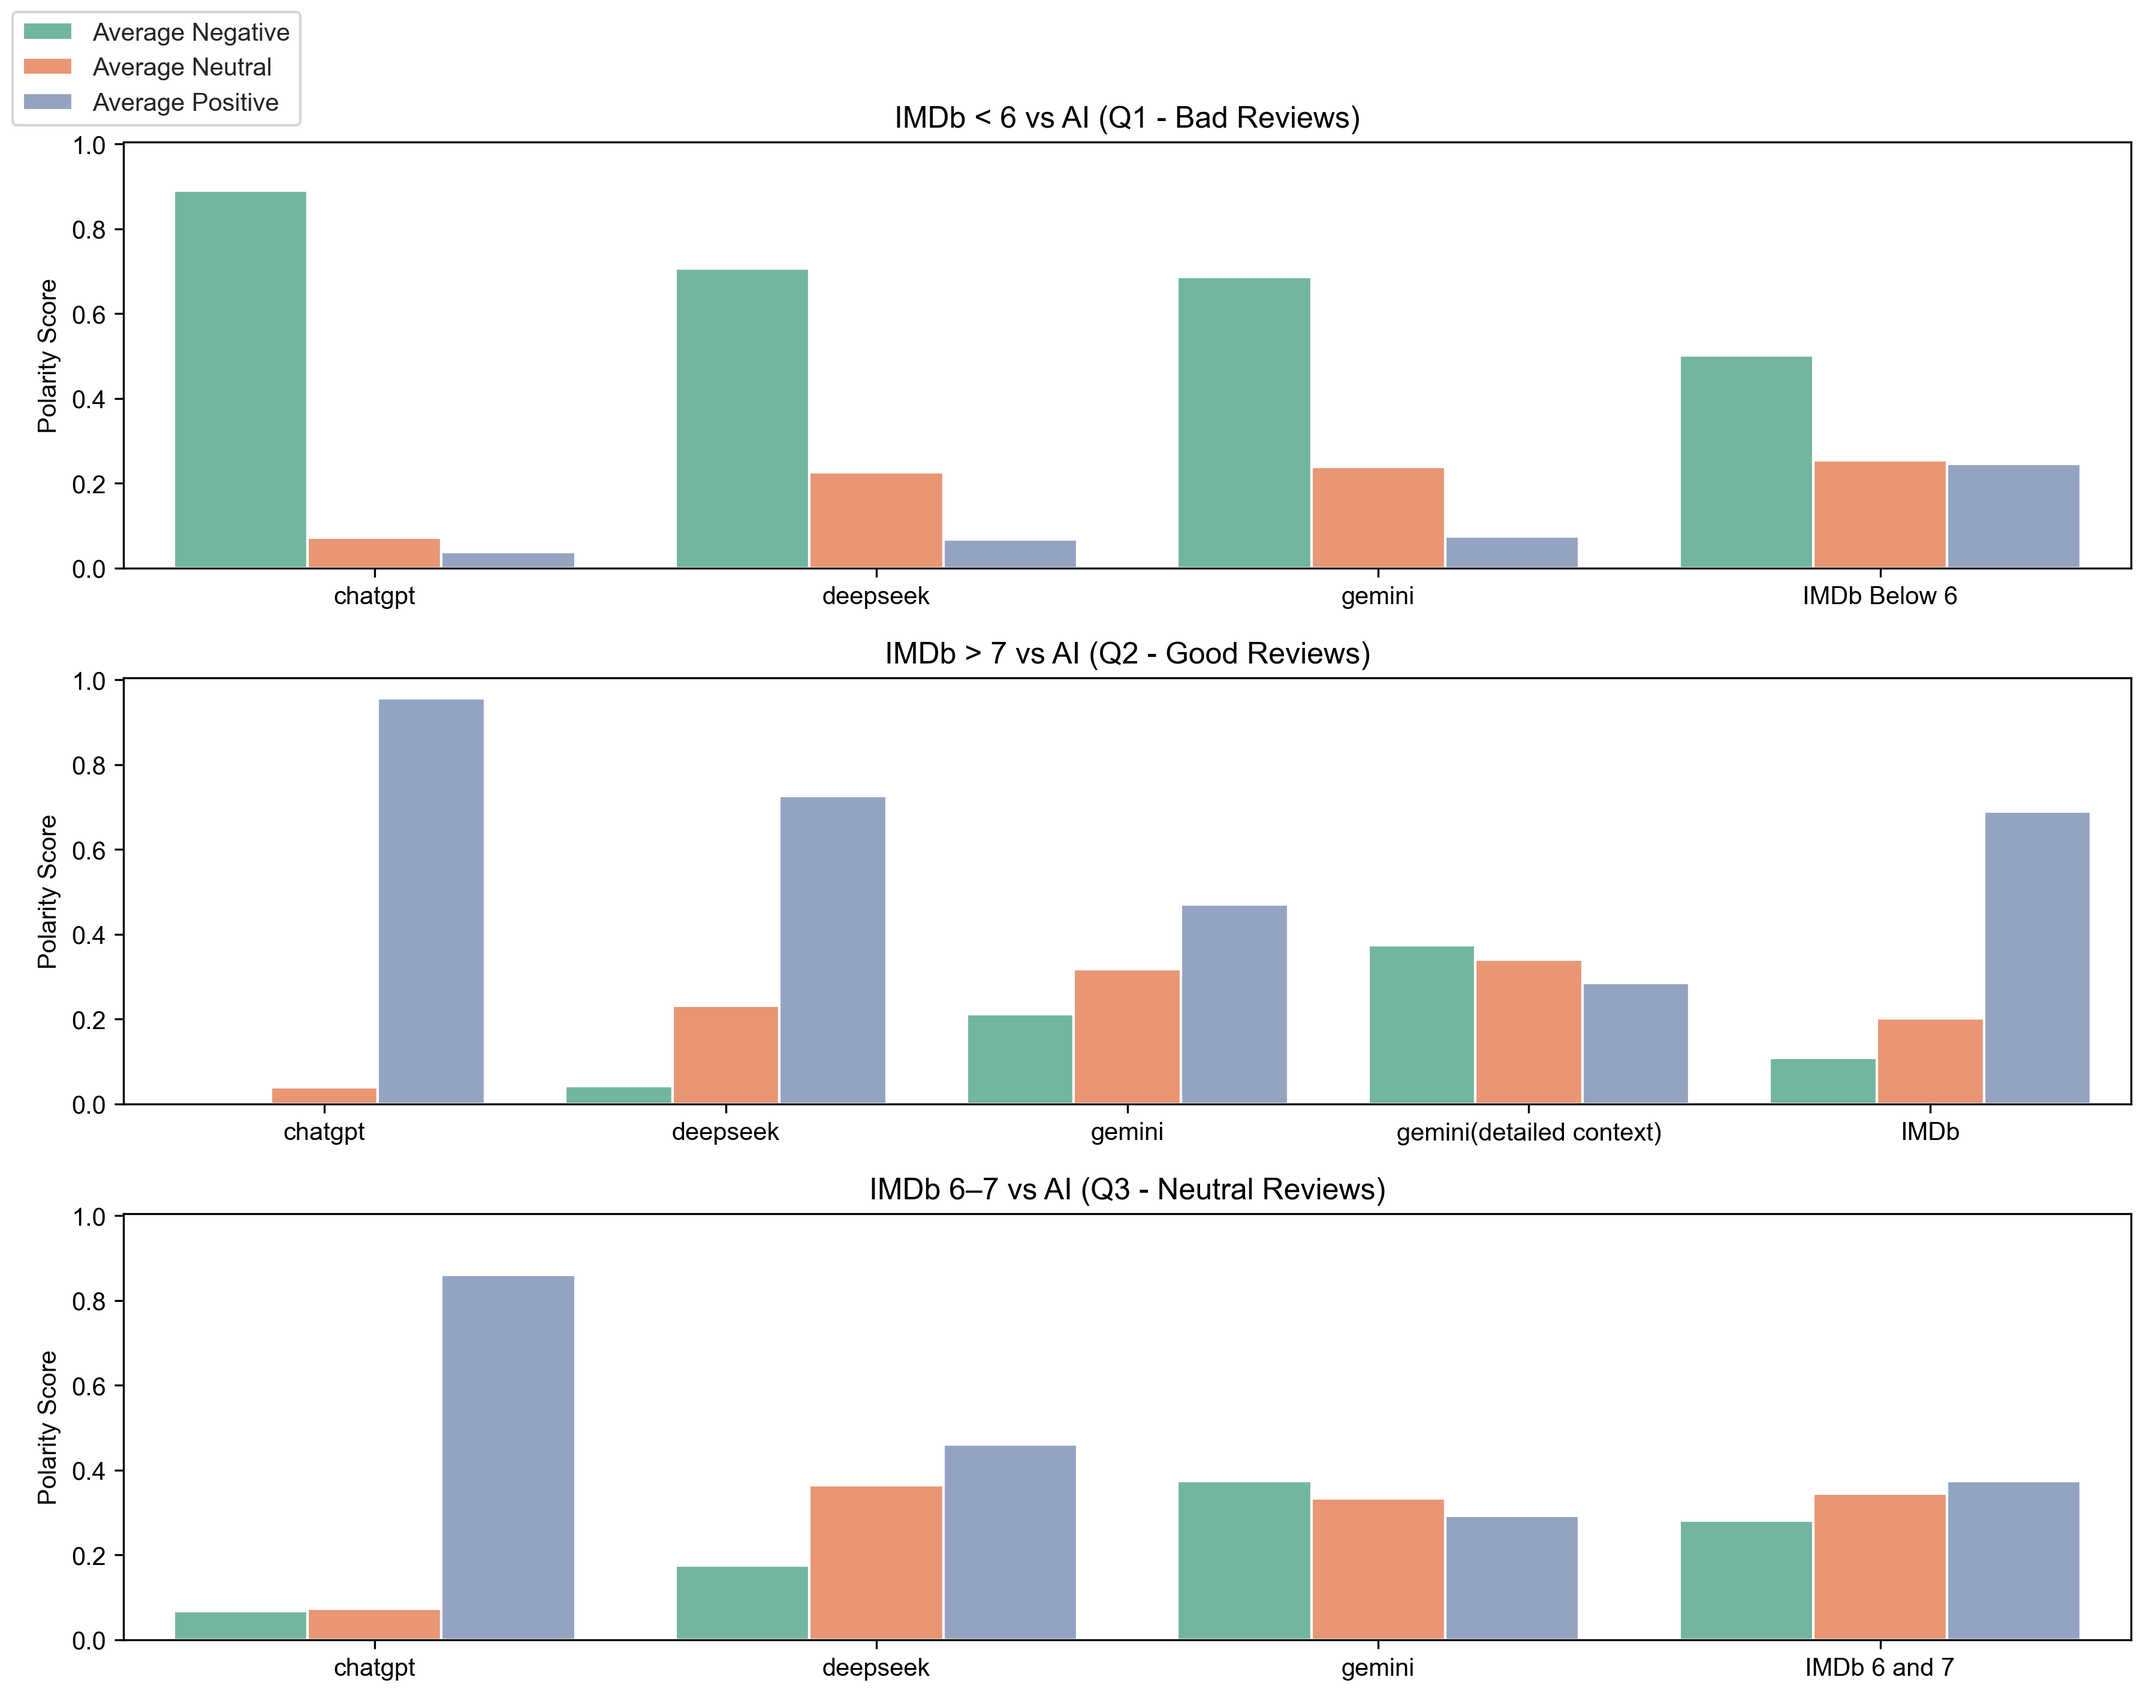
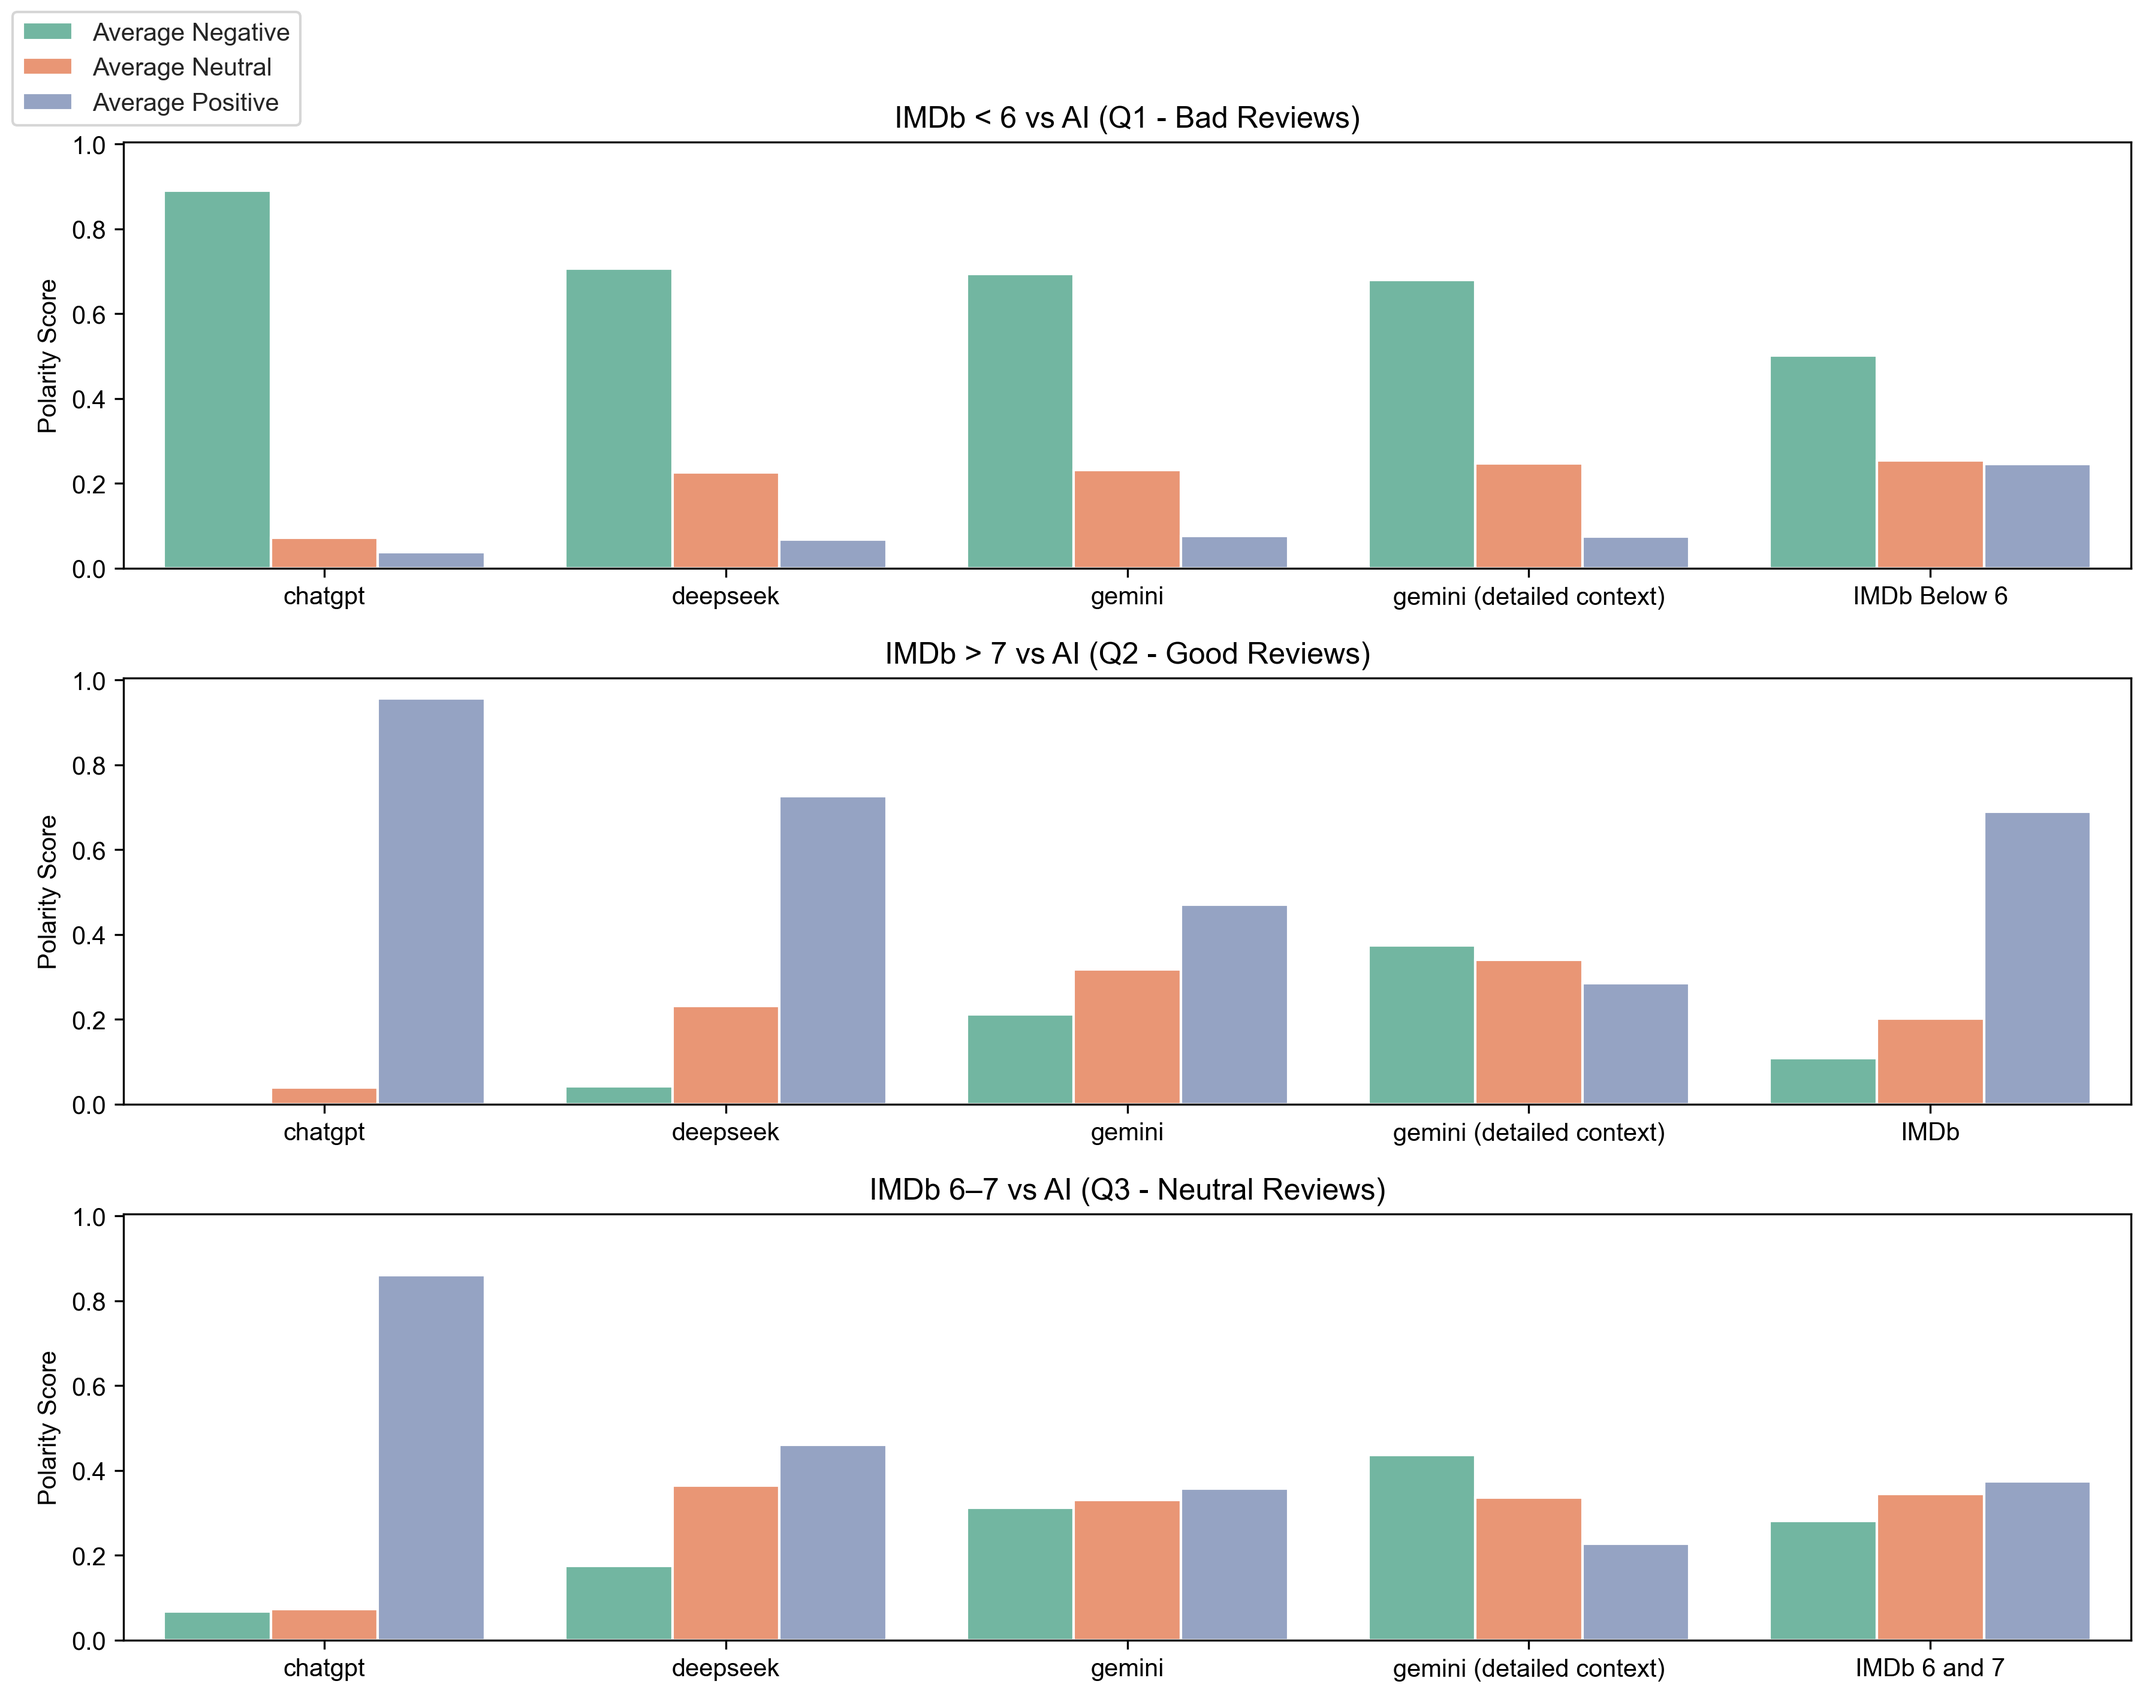
refine code, update combined_polarity_score_comparison_Screenplays

diff --git a/visualization/polarity.py b/visualization/polarity.py
@@ -2,174 +2,109 @@ import pandas as pd
 import seaborn as sns
 import matplotlib.pyplot as plt
 
-# Load the data
-ai_models = pd.read_csv('../polarity_scores_output/average_polarity_scores_subtitles.csv')
+
+# load the data
+subtitles_df = pd.read_csv('../polarity_scores_output/average_polarity_scores_subtitles.csv')
+screenplays_df = pd.read_csv('../polarity_scores_output/average_polarity_scores_screenplays.csv')
 imdb_above7 = pd.read_csv('../average_polarity_scores_imdb_above_7.csv')
 imdb_below6 = pd.read_csv('../average_polarity_scores_imdb_below_6.csv')
 imdb_6_and_7 = pd.read_csv('../average_polarity_scores_imdb_between_6_and_7.csv')
 
-ai_models['File'] = ai_models['File'].replace({
-    'aireviews_chatgpt.csv': 'chatgpt',
-    'aireviews_deepseek.csv': 'deepseek',
-    'aireviews_gemini.csv': 'gemini',
-    'aireviews_gemini_context_variation.csv' : 'gemini (detailed context)'
-})
+# replace file name with AI model name
+def replace_model_name(file_name):
+    # Check for 'gemini' with context variation first
+    if 'gemini_screenplays_context_variation' in file_name.lower() or 'gemini_context_variation' in file_name.lower():
+        return 'gemini (detailed context)'
+    elif 'gemini_screenplays' in file_name.lower():
+        return 'gemini'
+    elif 'chatgpt' in file_name.lower():
+        return 'chatgpt'
+    elif 'deepseek' in file_name.lower():
+        return 'deepseek'
+    elif 'gemini' in file_name.lower():
+        return 'gemini'
+    else:
+        return 'unknown'
 
-# Rename the 'File' column to 'Source'
-ai_models = ai_models.rename(columns={'File': 'Model'})
+def prepare_data(df,question=None):
+    # replace file name with AI model name
+    df['Source'] = df['File'].apply(replace_model_name)
+    print(df['Source'])
 
-# Filter out AI models for Question 2 (good reviews)
-ai_good_reviews = ai_models[ai_models['Question'] == 'question2'].copy()
-ai_good_reviews['Source'] = ai_good_reviews['Model']  # Label the AI source as per the model
+    # split to good, bad, neutral review based on question column
+    if question:
+        df = df[df['Question'] == question]
+    return df[['Movie', 'Source', 'Average Negative', 'Average Neutral', 'Average Positive']]
 
-ai_bad_reviews = ai_models[ai_models['Question'] == 'question1'].copy()
-ai_neutral_reviews = ai_models[ai_models['Question'] == 'question3'].copy()
-
-ai_bad_reviews['Source'] = ai_bad_reviews['Model']  # Label the AI source for Q1 (bad reviews)
-ai_neutral_reviews['Source'] = ai_neutral_reviews['Model']  # Label the AI source for Q3 (neutral reviews)
-
-# Add the IMDb data to the plot with the 'Source' as 'IMDb'
+# label the IMDb data with rating
 imdb_above7['Source'] = 'IMDb'
 imdb_below6['Source'] = 'IMDb Below 6'
 imdb_6_and_7['Source'] = 'IMDb 6 and 7'
 
-# Select the relevant columns for polarity scores
-ai_good_reviews = ai_good_reviews[['Movie', 'Source', 'Average Negative', 'Average Neutral', 'Average Positive']]
-imdb_above7 = imdb_above7[['Movie', 'Source', 'Average Negative', 'Average Neutral', 'Average Positive']]
-ai_bad_reviews = ai_bad_reviews[['Movie', 'Source', 'Average Negative', 'Average Neutral', 'Average Positive']]
-ai_neutral_reviews = ai_neutral_reviews[['Movie', 'Source', 'Average Negative', 'Average Neutral', 'Average Positive']]
-imdb_below6 = imdb_below6[['Movie', 'Source', 'Average Negative', 'Average Neutral', 'Average Positive']]
-imdb_6_and_7 = imdb_6_and_7[['Movie', 'Source', 'Average Negative', 'Average Neutral', 'Average Positive']]
+# change wide-format to long format
+def melt_data(df):
+    return pd.melt(df, id_vars = ['Movie', 'Source'],
+                   value_vars=['Average Negative', 'Average Neutral', 'Average Positive'],
+                   var_name='Polarity Type', value_name='Polarity Score')
 
 
-# Combine IMDb and AI data into one dataset
-combined_data = pd.concat([ai_good_reviews, imdb_above7], ignore_index=True)
-combined_bad_reviews = pd.concat([ai_bad_reviews, imdb_below6], ignore_index=True)
-combined_neutral_reviews = pd.concat([ai_neutral_reviews, imdb_6_and_7], ignore_index=True)
+def generate_polarity_barplot(source_name):
+    if source_name == 'Subtitle':
+        df = subtitles_df
+    else:
+        df = screenplays_df
+
+    ai_good_reviews = prepare_data(df, 'question2')
+    ai_bad_reviews = prepare_data(df, 'question1')
+    ai_neutral_reviews = prepare_data(df, 'question3')
+
+    # conmine IMDb reviews and correspoding AI reviews
+    combined_data = pd.concat([ai_good_reviews, imdb_above7], ignore_index=True)
+    combined_bad_reviews = pd.concat([ai_bad_reviews, imdb_below6], ignore_index=True)
+    combined_neutral_reviews = pd.concat([ai_neutral_reviews, imdb_6_and_7], ignore_index=True)
+
+    melted_good_reviews = melt_data(combined_data)
+    melted_bad_reviews = melt_data(combined_bad_reviews)
+    melted_neutral_reviews = melt_data(combined_neutral_reviews)
 
 
-# Melt the data for good reviews
-melted_data = pd.melt(combined_data, id_vars=['Movie', 'Source'],
-                      value_vars=['Average Negative', 'Average Neutral', 'Average Positive'],
-                      var_name='Polarity Type', value_name='Polarity Score')
+    # plot
+    fig, axes = plt.subplots(3, 1, figsize=(12,9.5), sharey=True)
+    sns.set(style="whitegrid")
+    palette = sns.color_palette("Set2", 3)
 
-# Melt the data for bad reviews (Q1 vs IMDb Below 6)
-melted_bad_reviews = pd.melt(combined_bad_reviews, id_vars=['Movie', 'Source'],
-                             value_vars=['Average Negative', 'Average Neutral', 'Average Positive'],
-                             var_name='Polarity Type', value_name='Polarity Score')
+    plot_data = [
+        ('IMDb < 6 vs AI (Q1 - Bad Reviews)', melted_bad_reviews, axes[0]),
+        ('IMDb > 7 vs AI (Q2 - Good Reviews)', melted_good_reviews, axes[1]),
+        ('IMDb 6–7 vs AI (Q3 - Neutral Reviews)', melted_neutral_reviews, axes[2])
+    ]
 
-# Melt the data for neutral reviews (Q3 vs IMDb Between 6 and 7)
-melted_neutral_reviews = pd.melt(combined_neutral_reviews, id_vars=['Movie', 'Source'],
-                                 value_vars=['Average Negative', 'Average Neutral', 'Average Positive'],
-                                 var_name='Polarity Type', value_name='Polarity Score')
+    for title, df, ax in plot_data:
+        sns.barplot(x='Source', y='Polarity Score', hue='Polarity Type',
+                    data=df, ax=ax, palette=palette,
+                    errorbar=None)
 
-# Melt the data for neutral reviews (Q3 vs IMDb Between 6 and 7)
-melted_good_reviews = pd.melt(combined_data, id_vars=['Movie', 'Source'],
-                                 value_vars=['Average Negative', 'Average Neutral', 'Average Positive'],
-                                 var_name='Polarity Type', value_name='Polarity Score')
+        ax.set_title(title)
+        ax.set_xlabel('')
+        ax.set_ylabel('Polarity Score')
+        ax.tick_params(axis='x')
+        ax.get_legend().remove()
+        ax.grid(False)
 
-### Bar Plot
-# Create a bar plot for the melted data (Good Reviews)
-# plt.figure(figsize=(12, 6))
-# sns.barplot(x='Source', y='Polarity Score', hue='Polarity Type', data=melted_data, palette='Set2')
-#
-# # Add titles and labels
-# plt.title("Comparison of Polarity Scores for IMDb vs AI (Good Reviews)", fontsize=14)
-# plt.xlabel("Source (IMDb vs AI)", fontsize=12)
-# plt.ylabel("Polarity Score", fontsize=12)
-# plt.xticks(rotation=45)
-#
-# # Display the plot
-# plt.tight_layout()
-# # save fig
-# plt.savefig("polarity_score_comparison(good).png", dpi=300, bbox_inches="tight")
-# plt.show()
-#
-# # Create a bar plot for the melted data (Bad Reviews)
-# plt.figure(figsize=(12, 6))
-# sns.barplot(x='Source', y='Polarity Score', hue='Polarity Type', data=melted_data, palette='Set2')
-#
-# # Add titles and labels
-# # Comparison of Polarity Scores for AI (Question 1) vs IMDb (Rating < 6)
-# plt.title("Comparison of Polarity Scores for AI vs IMDb (Bad Reviews)", fontsize=14)
-# plt.xlabel("Source (IMDb Below 6 vs AI - Q1)", fontsize=12)
-# plt.ylabel("Polarity Score", fontsize=12)
-# plt.xticks(rotation=45)
-#
-# # Display the plot
-# plt.tight_layout()
-# # save fig
-# plt.savefig("polarity_score_comparison(bad).png", dpi=300, bbox_inches="tight")
-# plt.show()
-#
-# # Create a bar plot for the melted data (Neutral Reviews)
-# plt.figure(figsize=(12, 6))
-# sns.barplot(x='Source', y='Polarity Score', hue='Polarity Type', data=melted_data, palette='Set2')
-#
-# # Add titles and labels
-# # Comparison of Polarity Scores for AI (Question 3) vs IMDb (Rating 6-7)
-# plt.title("Comparison of Polarity Scores for AI vs IMDb (Neutral Reviews)", fontsize=14)
-# plt.xlabel("Source (IMDb 6-7 vs AI - Q3)", fontsize=12)
-# plt.ylabel("Polarity Score", fontsize=12)
-# plt.xticks(rotation=45)
-#
-# # Display the plot
-# plt.tight_layout()
-# # save fig
-# plt.savefig("polarity_score_comparison(neutral).png", dpi=300, bbox_inches="tight")
-# plt.show()
+    # shared legend
+    handles, labels = axes[0].get_legend_handles_labels()
+    fig.legend(handles, labels, loc='upper left', ncol=1,
+               fontsize=10, title_fontsize=11)
 
-fig, axes = plt.subplots(3, 1, figsize=(12,9.5), sharey=True)
-sns.set(style="whitegrid")
-palette = sns.color_palette("Set2", 3)
+    # layout adjustment
+    fig.subplots_adjust(hspace=1)
+    plt.tight_layout(rect=(0, 0, 1, 0.96))
+    plt.grid(False)
+    plt.savefig(f"combined_polarity_score_comparison_{source_name}", dpi=300, bbox_inches="tight")
+    plt.show()
 
-# Plot bad reviews
-sns.boxplot(x='Source', y='Polarity Score', hue='Polarity Type',
-            data=melted_bad_reviews, ax=axes[0], palette=palette,
-            showfliers=False) # no outliers
-axes[0].set_title("IMDb < 6 vs AI (Q1 - Bad Reviews)")
-# axes[0].set_xlabel("Source")
-axes[0].set_xlabel("")
-axes[0].set_ylabel("Polarity Score")
-axes[0].tick_params(axis='x')
-axes[0].get_legend().remove()
-
-# Plot good reviews
-sns.boxplot(x='Source', y='Polarity Score', hue='Polarity Type',
-            data=melted_good_reviews, ax=axes[1], palette=palette,
-            showfliers=False)
-axes[1].set_title("IMDb > 7 vs AI (Q2 - Good Reviews)")
-# axes[1].set_xlabel("Source")
-axes[1].set_xlabel("")
-axes[1].tick_params(axis='x')
-axes[1].get_legend().remove()
-
-# Plot neutral reviews
-sns.boxplot(x='Source', y='Polarity Score', hue='Polarity Type',
-            data=melted_neutral_reviews, ax=axes[2], palette=palette,
-            showfliers=False)
-axes[2].set_title("IMDb 6–7 vs AI (Q3 - Neutral Reviews)")
-# axes[2].set_xlabel("Source")
-axes[2].set_xlabel("")
-axes[2].tick_params(axis='x')
-axes[2].get_legend().remove()
-
-# Shared legend
-handles, labels = axes[0].get_legend_handles_labels()
-fig.legend(handles, labels, loc='upper left', ncol=1,
-           fontsize=10, title_fontsize=11)
-
-# Add bottom label for the whole figure
-# fig.text(0.5, 0.04, 'Source', ha='center', fontsize=12)
-
-# layout adjustment
-fig.subplots_adjust(hspace=1)
-plt.tight_layout(rect=(0, 0, 1, 0.96))
-
-# plt.savefig("combined_polarity_score_comparison.png", dpi=300, bbox_inches="tight")
-plt.show()
-
-# neglect Box Plot for now
+generate_polarity_barplot("Subtitle")
+generate_polarity_barplot("Screenplays")
 
 
 # Obeservation of Bar Plot
@@ -252,8 +187,6 @@ def generate_polarity_box_plots(ai_df, source_name='ai', ax=None):
         ax.set_xlabel('')
 
 # load the subtitle and screenplay data
-subtitles_df = pd.read_csv('../polarity_scores_output/average_polarity_scores_subtitles.csv')
-screenplays_df = pd.read_csv('../polarity_scores_output/average_polarity_scores_screenplays.csv')
 
 # display subplot
 fig, axes = plt.subplots(2, 1, figsize=(16, 8))
